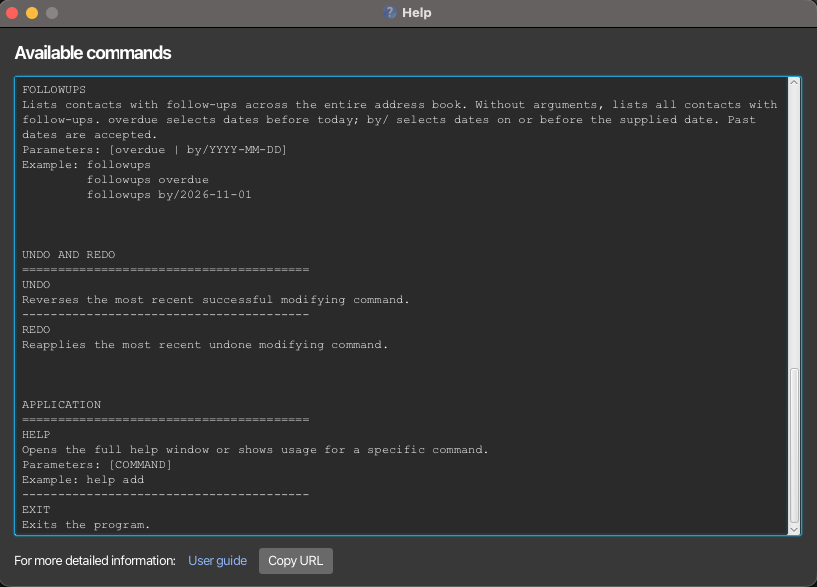
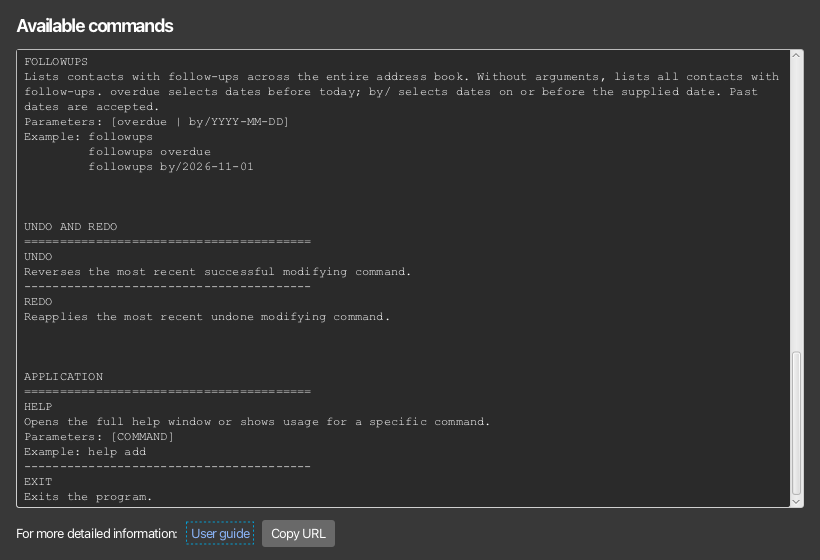
Update help and user/developer guides

Changed region(s): [[0.0, 0.0, 1.0, 1.0], [0.2754, 0.5464, 0.459, 0.6071]]

diff --git a/src/test/java/seedu/address/logic/commands/HelpCommandTest.java b/src/test/java/seedu/address/logic/commands/HelpCommandTest.java
@@ -63,6 +63,17 @@ public class HelpCommandTest {
     }
 
     @Test
+    public void execute_helpSelect_returnsUsageWithoutSelectingOrChangingData() throws Exception {
+        Model expected = new ModelManager();
+        CommandResult result = executeHelpInput("help select");
+        assertEquals(SelectCommand.COMMAND_USAGE, result.getFeedbackToUser());
+        assertFalse(result.isShowHelp());
+        assertFalse(result.isExit());
+        assertTrue(result.getSelectedPerson().isEmpty());
+        assertEquals(expected, model);
+    }
+
+    @Test
     public void execute_helpEveryCommand_returnsUsageWithoutExecutingTarget() throws Exception {
         Map<String, String> usages = Map.ofEntries(
                 Map.entry("add", AddCommand.COMMAND_USAGE),
@@ -72,6 +83,7 @@ public class HelpCommandTest {
                 Map.entry("followup", FollowUpCommand.COMMAND_USAGE),
                 Map.entry("followups", FollowUpsCommand.COMMAND_USAGE),
                 Map.entry("sort", SortCommand.COMMAND_USAGE),
+                Map.entry("select", SelectCommand.COMMAND_USAGE),
                 Map.entry("list", ListCommand.COMMAND_USAGE),
                 Map.entry("clear", ClearCommand.COMMAND_USAGE),
                 Map.entry("undo", UndoCommand.COMMAND_USAGE),
@@ -84,6 +96,7 @@ public class HelpCommandTest {
             assertEquals(usage.getValue(), result.getFeedbackToUser());
             assertFalse(result.isShowHelp());
             assertFalse(result.isExit());
+            assertTrue(result.getSelectedPerson().isEmpty());
         }
     }
 
@@ -111,7 +124,7 @@ public class HelpCommandTest {
         assertEquals("No command-specific help is available for 'invalid'.\n"
                 + "Enter `help` to open the full help window, or use `help COMMAND` for command-specific help.\n"
                 + "Supported commands: add, clear, delete, edit, exit, find, followup, followups, help, list, redo, "
-                + "sort, undo.", result.getFeedbackToUser());
+                + "select, sort, undo.", result.getFeedbackToUser());
         assertFalse(result.isShowHelp());
         assertFalse(result.isExit());
     }

diff --git a/src/test/java/seedu/address/ui/HelpWindowTest.java b/src/test/java/seedu/address/ui/HelpWindowTest.java
@@ -32,6 +32,7 @@ import seedu.address.logic.commands.FollowUpsCommand;
 import seedu.address.logic.commands.HelpCommand;
 import seedu.address.logic.commands.ListCommand;
 import seedu.address.logic.commands.RedoCommand;
+import seedu.address.logic.commands.SelectCommand;
 import seedu.address.logic.commands.SortCommand;
 import seedu.address.logic.commands.UndoCommand;
 
@@ -66,6 +67,7 @@ public class HelpWindowTest {
         assertTrue(HelpWindow.HELP_MESSAGE.contains("\nEDIT\n"));
         assertTrue(HelpWindow.HELP_MESSAGE.contains("\nDELETE\n"));
         assertTrue(HelpWindow.HELP_MESSAGE.contains("\nFIND\n"));
+        assertTrue(HelpWindow.HELP_MESSAGE.contains("\nSELECT\n" + SelectCommand.COMMAND_DESCRIPTION));
         assertTrue(HelpWindow.HELP_MESSAGE.contains("\nLIST\nShows all persons"));
         assertTrue(HelpWindow.HELP_MESSAGE.contains("\nCLEAR\nClears all entries"));
         assertTrue(HelpWindow.HELP_MESSAGE.contains("\nHELP\n" + HelpCommand.COMMAND_DESCRIPTION));
@@ -80,7 +82,7 @@ public class HelpWindowTest {
         String[] categories = {"MANAGE CONTACTS", "BROWSE CONTACTS", "UNDO AND REDO", "APPLICATION"};
         String[][] commandsByCategory = {
             {"ADD", "EDIT", "DELETE", "CLEAR", "FOLLOWUP"},
-            {"LIST", "FIND", "SORT", "FOLLOWUPS"},
+            {"LIST", "FIND", "SORT", "SELECT", "FOLLOWUPS"},
             {"UNDO", "REDO"},
             {"HELP", "EXIT"}
         };
@@ -108,6 +110,7 @@ public class HelpWindowTest {
         assertUsageIsDisplayed(FollowUpCommand.COMMAND_USAGE);
         assertUsageIsDisplayed(FollowUpsCommand.COMMAND_USAGE);
         assertUsageIsDisplayed(SortCommand.COMMAND_USAGE);
+        assertUsageIsDisplayed(SelectCommand.COMMAND_USAGE);
         assertUsageIsDisplayed(ListCommand.COMMAND_USAGE);
         assertUsageIsDisplayed(ClearCommand.COMMAND_USAGE);
         assertUsageIsDisplayed(UndoCommand.COMMAND_USAGE);

diff --git a/src/test/java/seedu/address/ui/MainWindowTest.java b/src/test/java/seedu/address/ui/MainWindowTest.java
@@ -487,6 +487,21 @@ public class MainWindowTest {
     }
 
     @Test
+    public void helpSelect_displaysUsageAndKeepsSelectedContactAndInputFocus() throws Exception {
+        runOnFxThread(() -> {
+            initializeContactWindow();
+            TextField command = (TextField) stage.getScene().lookup("#commandTextField");
+            command.requestFocus();
+            submitCommand("select 2");
+            submitCommand("help select");
+            assertSelected(BENSON);
+            TextArea feedback = (TextArea) stage.getScene().lookup("#resultDisplay");
+            assertEquals(SelectCommand.COMMAND_USAGE, feedback.getText());
+            assertSame(command, stage.getScene().getFocusOwner());
+        });
+    }
+
+    @Test
     public void selectCommand_filteredSortedView_usesDisplayedNumbersAndAllowsRepeatedSelection() throws Exception {
         runOnFxThread(() -> {
             ModelManager model = new ModelManager();

diff --git a/src/main/java/seedu/address/ui/HelpWindow.java b/src/main/java/seedu/address/ui/HelpWindow.java
@@ -27,6 +27,7 @@ import seedu.address.logic.commands.FollowUpsCommand;
 import seedu.address.logic.commands.HelpCommand;
 import seedu.address.logic.commands.ListCommand;
 import seedu.address.logic.commands.RedoCommand;
+import seedu.address.logic.commands.SelectCommand;
 import seedu.address.logic.commands.SortCommand;
 import seedu.address.logic.commands.UndoCommand;
 
@@ -61,6 +62,8 @@ public class HelpWindow extends UiPart<Stage> {
             formatCommandUsage(FindCommand.COMMAND_USAGE),
             COMMAND_DIVIDER,
             formatCommandUsage(SortCommand.COMMAND_USAGE),
+            COMMAND_DIVIDER,
+            formatCommandUsage(SelectCommand.COMMAND_USAGE),
             COMMAND_DIVIDER,
             formatCommandUsage(FollowUpsCommand.COMMAND_USAGE),
             "",

diff --git a/src/main/java/seedu/address/logic/commands/HelpCommand.java b/src/main/java/seedu/address/logic/commands/HelpCommand.java
@@ -32,6 +32,7 @@ public class HelpCommand extends Command {
             Map.entry(FollowUpCommand.COMMAND_WORD, FollowUpCommand.COMMAND_USAGE),
             Map.entry(FollowUpsCommand.COMMAND_WORD, FollowUpsCommand.COMMAND_USAGE),
             Map.entry(SortCommand.COMMAND_WORD, SortCommand.COMMAND_USAGE),
+            Map.entry(SelectCommand.COMMAND_WORD, SelectCommand.COMMAND_USAGE),
             Map.entry(ListCommand.COMMAND_WORD, ListCommand.COMMAND_USAGE),
             Map.entry(ClearCommand.COMMAND_WORD, ClearCommand.COMMAND_USAGE),
             Map.entry(UndoCommand.COMMAND_WORD, UndoCommand.COMMAND_USAGE),

diff --git a/docs/DeveloperGuide.md b/docs/DeveloperGuide.md
@@ -148,59 +148,54 @@ Further UI tests cover Escape from the list, details, and feedback, draft/cursor
 independent mouse-wheel scrolling, access to the bottom of long details, and long content at divider limits after
 resizing between minimum and larger windows.
 
-#### `select INDEX` implementation status
+#### Selecting contacts with `select INDEX`
 
-`select INDEX` now lets users select a contact entirely through command input. `INDEX` is a positive, one-based index
-into the currently displayed filtered and sorted list. Missing, zero, negative, extra, non-numeric, overflowing,
-and out-of-range arguments are rejected without changing selection. A valid selection scrolls the list to the contact
-and displays its details while keeping focus in command input. It does not change contact data, filters, sorting,
-or undo/redo history, and does not persist selection across restarts.
+`AddressBookParser` dispatches `select` to `SelectCommandParser`, which accepts exactly one positive integer using
+`ParserUtil.parseIndex()`. `SelectCommand#execute()` resolves the index against `Model#getFilteredPersonList()`, the
+current filtered and sorted view. It returns feedback and the exact `Person` reference without modifying data,
+filter predicates, comparators, or history. The command does not call `commitAddressBook()`.
 
-`SelectCommand` resolves the current `Person` reference during execution and returns it as an optional selection
-request in `CommandResult`. Existing constructors default to no request. `LogicManager` copies this request
-into `CommandSelectionChange` before saving. An explicit request takes precedence over retaining the previous
-selection; undo/redo continue to clear it. This uses the existing `MainWindow` finally block and
-`PersonListPanel#endCommand(Person)`, including reconciliation after saving errors, without Model or Storage changes.
+`CommandResult#getSelectedPerson()` carries an optional explicit selection request. Existing constructors default to
+no request; `CommandResult(String, Person)` retains the exact immutable contact reference. Equality, hashing, and the
+string representation include the request. `LogicManager` forwards it into `CommandSelectionChange` before saving.
+Each command attempt resets this information before parsing. Selection precedence is:
 
-The complete planned file list is below. The selection-request plumbing, command, parser, and end-to-end GUI selection
-are implemented and verified. Integration tests cover filtered and sorted indexes, duplicate names, invalid input and
-recovery, empty results, edits/deletion after selection, saving errors, and repeated off-screen selection. They also
-verify that selection leaves saved contact JSON unchanged, preserves redo history, and creates no undo step.
-The off-screen test checks that wrapped-tag cards are fully revealed, including when selected immediately after `add`,
-and that repeated selection retains the details scroll position. It exposed clipped scrolling for a newly added row;
-`PersonListPanel` now resolves pending styling and layout before scrolling to fix that case.
-Help registration and final user-facing documentation
-remain for Iteration 4. `LogicManager` also has a package-private parser-injection
-constructor for testing command results independently of production command registration.
-Paths are relative to the repository root.
+1. Successful undo/redo resets clear selection.
+2. An explicit selection request chooses its target, even when there was no previous selection.
+3. Otherwise, retain the previous contact or its recorded replacement when it remains visible.
 
-File | Planned change
------|----------------
-`src/main/java/seedu/address/logic/commands/SelectCommand.java` (new) | Validate the displayed index and return selection feedback and the exact contact reference; do not commit history.
-`src/main/java/seedu/address/logic/parser/SelectCommandParser.java` (new) | Parse exactly one positive index using the existing index validation.
-`src/main/java/seedu/address/logic/parser/AddressBookParser.java` | Dispatch `select` to its parser.
-`src/main/java/seedu/address/logic/commands/CommandResult.java` | Add an optional selected-contact request, preserving existing constructor defaults and updating equality, hashing, and string representation.
-`src/main/java/seedu/address/logic/CommandSelectionChange.java` | Apply an explicit selection request, including when there was no previous selection.
-`src/main/java/seedu/address/logic/LogicManager.java` | Forward the result's selection request into the reconciliation information before saving.
-`src/main/java/seedu/address/logic/commands/HelpCommand.java` | Register targeted `help select` usage.
-`src/main/java/seedu/address/ui/HelpWindow.java` | Include the command in the browse-contacts help section.
-`src/test/java/seedu/address/logic/commands/SelectCommandTest.java` (new) | Cover valid/invalid displayed indexes, exact target references, unchanged data/filter/sort/history, and filtered/sorted views.
-`src/test/java/seedu/address/logic/parser/SelectCommandParserTest.java` (new) | Cover missing, malformed, extra, zero, negative, and valid arguments.
-`src/test/java/seedu/address/logic/parser/AddressBookParserTest.java` | Verify command dispatch.
-`src/test/java/seedu/address/logic/commands/CommandResultTest.java` | Test selection-request defaults and value methods.
-`src/test/java/seedu/address/logic/CommandSelectionChangeTest.java` | Verify explicit-request precedence, undo/redo reset precedence, and exact contact references; initial coverage is implemented.
-`src/test/java/seedu/address/logic/LogicManagerTest.java` | Verify request forwarding, resetting between attempts, and behaviour when saving fails.
-`src/test/java/seedu/address/ui/MainWindowTest.java` | Cover selection from the empty state, scrolling, repeated selection, filtered/sorted indexes, invalid requests, focus, and saving failures.
-`src/test/java/seedu/address/logic/commands/HelpCommandTest.java` | Cover targeted help and the supported-command list.
-`src/test/java/seedu/address/ui/HelpWindowTest.java` | Verify that browse help includes `select`.
-`docs/UserGuide.md` | Document syntax, displayed-index rules, examples, errors, and command-summary entry after implementation.
-`docs/DeveloperGuide.md` | Replace this proposal with the implemented request flow and its tests.
-`docs/images/help.png` | Refresh the help screenshot to include the new browse command.
-`docs/images/help-continued.png` | Refresh the continuation screenshot after the additional help text changes scrolling positions.
+`MainWindow` applies the result through its existing `finally` block and `PersonListPanel#endCommand(Person)`.
+The panel resolves the current index by object identity, updates the highlight, and scrolls to the contact without
+moving focus out of command input. It resolves pending styling and list layout before scrolling so freshly added
+rows are positioned correctly. Repeated selection of the same object retains the details panel's reading position.
+There are no new Model or Storage fields and no selection data is persisted.
 
-No `Logic` API, FXML, `MainWindow`, `PersonListPanel`, `PersonDetailsPanel`, Model, or Storage changes are required by
-this approach. The existing generic command/parser diagrams already cover an additional command; their
-class structure would not change.
+The existing automatic saving flow still runs after selection. Because the explicit request is recorded before
+saving, a storage exception does not discard a valid selection. Rejected parsing or index validation leaves no
+new request, so the UI preserves the previous selection. `help select` returns usage with no selection request;
+it neither executes a selection nor opens the full Help window.
+
+Condition | Handling
+----------|---------
+Missing index | `ParseException` with `SelectCommand.MESSAGE_INDEX_REQUIRED`.
+Extra arguments | `ParseException` with `SelectCommand.MESSAGE_EXTRA_ARGUMENTS`.
+Malformed, non-positive, or overflowing integer | `ParseException` with `ParserUtil.MESSAGE_INVALID_INDEX`.
+Empty displayed list | `CommandException` with `SelectCommand.MESSAGE_NO_CONTACTS_TO_SELECT`.
+Index outside the current view | `CommandException` with the range message, or the single-valid-index variant.
+
+Tests cover the command through the real parser, logic, storage, and JavaFX UI pipeline:
+
+* `SelectCommandParserTest` and `AddressBookParserTest`: argument validation, integer boundaries, and dispatch.
+* `SelectCommandTest`: exact targets, filtered/sorted indexes, unchanged model state, and invalid displayed indexes.
+* `CommandResultTest` and `CommandSelectionChangeTest`: request defaults, value methods, identity, and reset precedence.
+* `LogicManagerTest`: request forwarding/reset, unchanged saved contact JSON, undo/redo preservation, and storage failures.
+  A package-private parser-injection constructor also supports isolated command-result tests.
+* `MainWindowTest`: focus, duplicate names, invalid-input recovery, empty results, edits/deletion after selection,
+  saving errors, off-screen and newly added rows, and repeated selection retaining the details scroll position.
+* `HelpCommandTest` and `HelpWindowTest`: targeted usage, supported-command guidance, browse-category placement,
+  formatting, and absence of a selection side effect.
+
+The existing generic command/parser class diagrams cover `SelectCommand` without additional class boxes.
 
 ### Logic component
 
@@ -360,11 +355,11 @@ Each user command defines its help text in the command class. `COMMAND_USAGE` is
 | Category | Commands |
 | --- | --- |
 | Manage contacts | `add`, `edit`, `delete`, `clear`, `followup` |
-| Browse contacts | `list`, `find`, `sort`, `followups` |
+| Browse contacts | `list`, `find`, `sort`, `select`, `followups` |
 | Undo and redo | `undo`, `redo` |
 | Application | `help`, `exit` |
 
-`followup` belongs under Manage contacts because it changes contact data. `followups` belongs under Browse contacts because it filters the displayed contacts without modifying their data.
+`select` belongs under Browse contacts because it changes only the displayed selection. `followup` belongs under Manage contacts because it changes contact data. `followups` belongs under Browse contacts because it filters the displayed contacts without modifying their data.
 
 When adding a user command, define its help constants, register its `COMMAND_USAGE` in `HelpCommand.COMMAND_USAGE_BY_NAME`, and add it to the appropriate category in `HelpWindow.HELP_MESSAGE`. Update `HelpCommandTest` and `HelpWindowTest` to cover targeted help, category placement, and formatting. Update parser tests when usage text changes, and keep the User Guide's command list, categories, and help screenshot consistent with the implementation.
 
@@ -1007,6 +1002,23 @@ testers are expected to do more *exploratory* testing.
        Expected: The most recent window size and location are retained.
 
 1. _{ more test cases … }_
+
+### Selecting a contact
+
+Start with at least two sample/test contacts. Use the current displayed numbers after each search or sort.
+
+Action | Expected result
+-------|----------------
+Run `select 2`. | Contact 2 is highlighted, scrolled into view, and shown in the right panel; command input keeps focus.
+Scroll the list away, then repeat `select 2`. | The same contact is revealed; the details panel keeps its reading position.
+Run `find` with a matching name, then `select 1`. | The first current search result is selected.
+Run `sort n/`, then `select 1`. | The first contact in the sorted view is selected.
+Try `select`, `select 0`, `select -1`, `select abc`, `select 1 2`, and an index beyond the list size. | An appropriate error appears; selection and details remain unchanged.
+Run a search with no matches, then `select 1`. | The empty-state prompt remains and feedback explains that no contacts are displayed.
+With enough contacts to scroll, add a contact with wrapping tags and immediately select its displayed number. | Its selected card is scrolled into view using the updated layout.
+Run `help select` while a contact is selected. | Usage appears in command feedback; selection stays unchanged and no Help window opens.
+Make one edit, undo it, run `select 1`, then redo. | Redo is still available and reapplies the edit; undo/redo clear selection.
+Restart the application. | Contact data remains available and the details panel starts in its empty state.
 
 ### Deleting a person
 

diff --git a/docs/UserGuide.md b/docs/UserGuide.md
@@ -28,6 +28,8 @@ KeyBossWarriorsPro is a specialized **desktop application for managing contacts 
 
    * `list` : Lists all contacts.
 
+   * `select 1` : Shows the first displayed contact's full details in the right panel.
+
    * `add n/John Doe p/98765432 e/johnd@example.com a/John street, block 123, #01-01 r/Supplier` : Adds a contact named `John Doe` to KeyBossWarriorsPro.
 
    * `delete 3` : Deletes the 3rd contact shown in the current list.
@@ -68,7 +70,7 @@ KeyBossWarriorsPro is a specialized **desktop application for managing contacts 
 
 ### Viewing contact details
 
-Click a contact in the list to display its full details in the panel on the right.
+Click a contact in the list, or enter `select INDEX`, to display its full details in the panel on the right.
 List cards show the name, role, phone number, and tags. Long names use an ellipsis; hover over a name to read it in full.
 While the contact list has keyboard focus, use the Up and Down arrow keys to move between contacts.
 The details panel updates immediately without moving keyboard focus.
@@ -92,6 +94,42 @@ Your draft command, its cursor position and text selection, and the selected con
 * Successful `undo` and `redo` commands clear selection. Commands rejected because of invalid input keep selection.
 * If saving fails after a command has changed the contacts, the panel reflects the current in-memory contact data
   alongside the saving error shown in the command feedback.
+
+### Selecting a contact: `select INDEX`
+
+Selects a contact from the current list and shows its full details in the panel on the right.
+
+**Format:** `select INDEX`
+
+* `INDEX` is a positive, one-based number from the currently displayed list. After `find`, a follow-up query, or
+  `sort`, use the numbers shown in that view. Indexes from the complete address book may not be valid in a filtered view.
+* The contact is highlighted and scrolled into view. Keyboard focus stays in command input, ready for your next command.
+* Selecting the same contact again is allowed. Its card is brought back into view while the details panel keeps its
+  scroll position.
+* Selection does not change contacts, filters, sorting, or undo/redo history, and does not discard available redo history.
+  Selection is cleared on restart and after successful `undo` or `redo`.
+* Invalid input or an empty result list leaves the current selection and details unchanged.
+* If an automatic save fails after a valid selection, the contact remains selected and the feedback shows the saving
+  error. Selection itself does not alter contact data.
+
+Examples with the sample contacts:
+
+* `select 2` selects Bernice Yu in the initial list and displays `Selected contact 2: Bernice Yu`.
+* `find alex david`, followed by `select 2`, selects David Li from the two matching contacts.
+* `sort n/`, followed by `select 1`, selects the first contact in name order.
+* `help select` displays the command's usage without changing selection or opening the Help window.
+
+Common errors:
+
+Input or condition | Feedback
+-------------------|---------
+`select` | `Error: INDEX is required. Usage: select INDEX`
+`select 0`, `select -1`, `select abc`, or an integer larger than 2147483647 | `Error: INDEX must be a positive integer`
+`select 1 2` | `Error: SELECT accepts only one INDEX`
+No contacts are displayed | `Error: There are no displayed contacts to select`
+`select 4` when three contacts are displayed | `Error: INDEX 4 is outside the displayed contact list (valid range: 1-3)`
+
+When exactly one contact is displayed, an out-of-range error states that the only valid index is `1`.
 
 ### Adding a contact: `add`
 
@@ -414,9 +452,11 @@ Displays all contacts sorted by name, role, or both, making it easier to browse 
 
 ### Viewing help: `help [COMMAND]`
 
-Use `help` on its own to open the full help window, which lists all commands. Use `help COMMAND` to display a command's usage directly in the result display without opening the window. Targeted help is available for `add`, `clear`, `delete`, `edit`, `exit`, `find`, `followup`, `followups`, `help`, `list`, `redo`, `sort`, and `undo`. For detailed explanations and examples, refer to this user guide.
+Use `help` on its own to open the full help window, which lists all commands. Use `help COMMAND` to display a command's usage directly in the result display without opening the window. Targeted help is available for `add`, `clear`, `delete`, `edit`, `exit`, `find`, `followup`, `followups`, `help`, `list`, `redo`, `select`, `sort`, and `undo`. For detailed explanations and examples, refer to this user guide.
 
 ![Help window showing commands for managing contacts](images/help.png)
+
+![Help window showing browsing commands, including SELECT](images/help-browse.png)
 
 ![Help window scrolled down to follow-up queries, undo and redo, and application commands](images/help-continued.png)
 
@@ -427,7 +467,7 @@ The full help window groups commands into four categories:
 | Category | Purpose | Commands |
 | --- | --- | --- |
 | Manage contacts | Add, update, or remove contact data, including follow-ups. | `add`, `edit`, `delete`, `clear`, `followup` |
-| Browse contacts | View, filter, or sort contacts without changing their data. | `list`, `find`, `sort`, `followups` |
+| Browse contacts | View, select, filter, or sort contacts without changing their data. | `list`, `find`, `sort`, `select`, `followups` |
 | Undo and redo | Reverse or restore contact changes. | `undo`, `redo` |
 | Application | View help or exit the application. | `help`, `exit` |
 
@@ -440,6 +480,7 @@ Examples:
 
 * `help` opens the full help window.
 * `help add` displays the usage, parameters, and an example for `add` in the result display.
+* `help select` displays the usage, parameters, and an example for selecting a displayed contact.
 * `help undo` displays a brief description of `undo`, without parameters or an example.
 * `help unknown` displays guidance and lists the commands with targeted help.
 
@@ -531,6 +572,7 @@ Action | Format, Examples
 **Find** | `find [n/NAME_PHRASE]... [r/ROLE_PHRASE]... [t/TAG_PHRASE]...` or `find KEYWORD [MORE_KEYWORDS]` (Legacy Search)<br> e.g., `find n/John r/Supplier`, `find James Jake`
 **Help** | `help`
 **List** | `list`
+**Select** | `select INDEX`<br> e.g., `select 2` displays the second currently listed contact's details.
 **Redo** | `redo`
 **Undo** | `undo`
 **Follow-up** | `followup INDEX by/DUE_DATE abt/DESCRIPTION` or `followup INDEX clear`<br> e.g., `followup 1 by/2026-11-01 abt/Confirm quotation`
